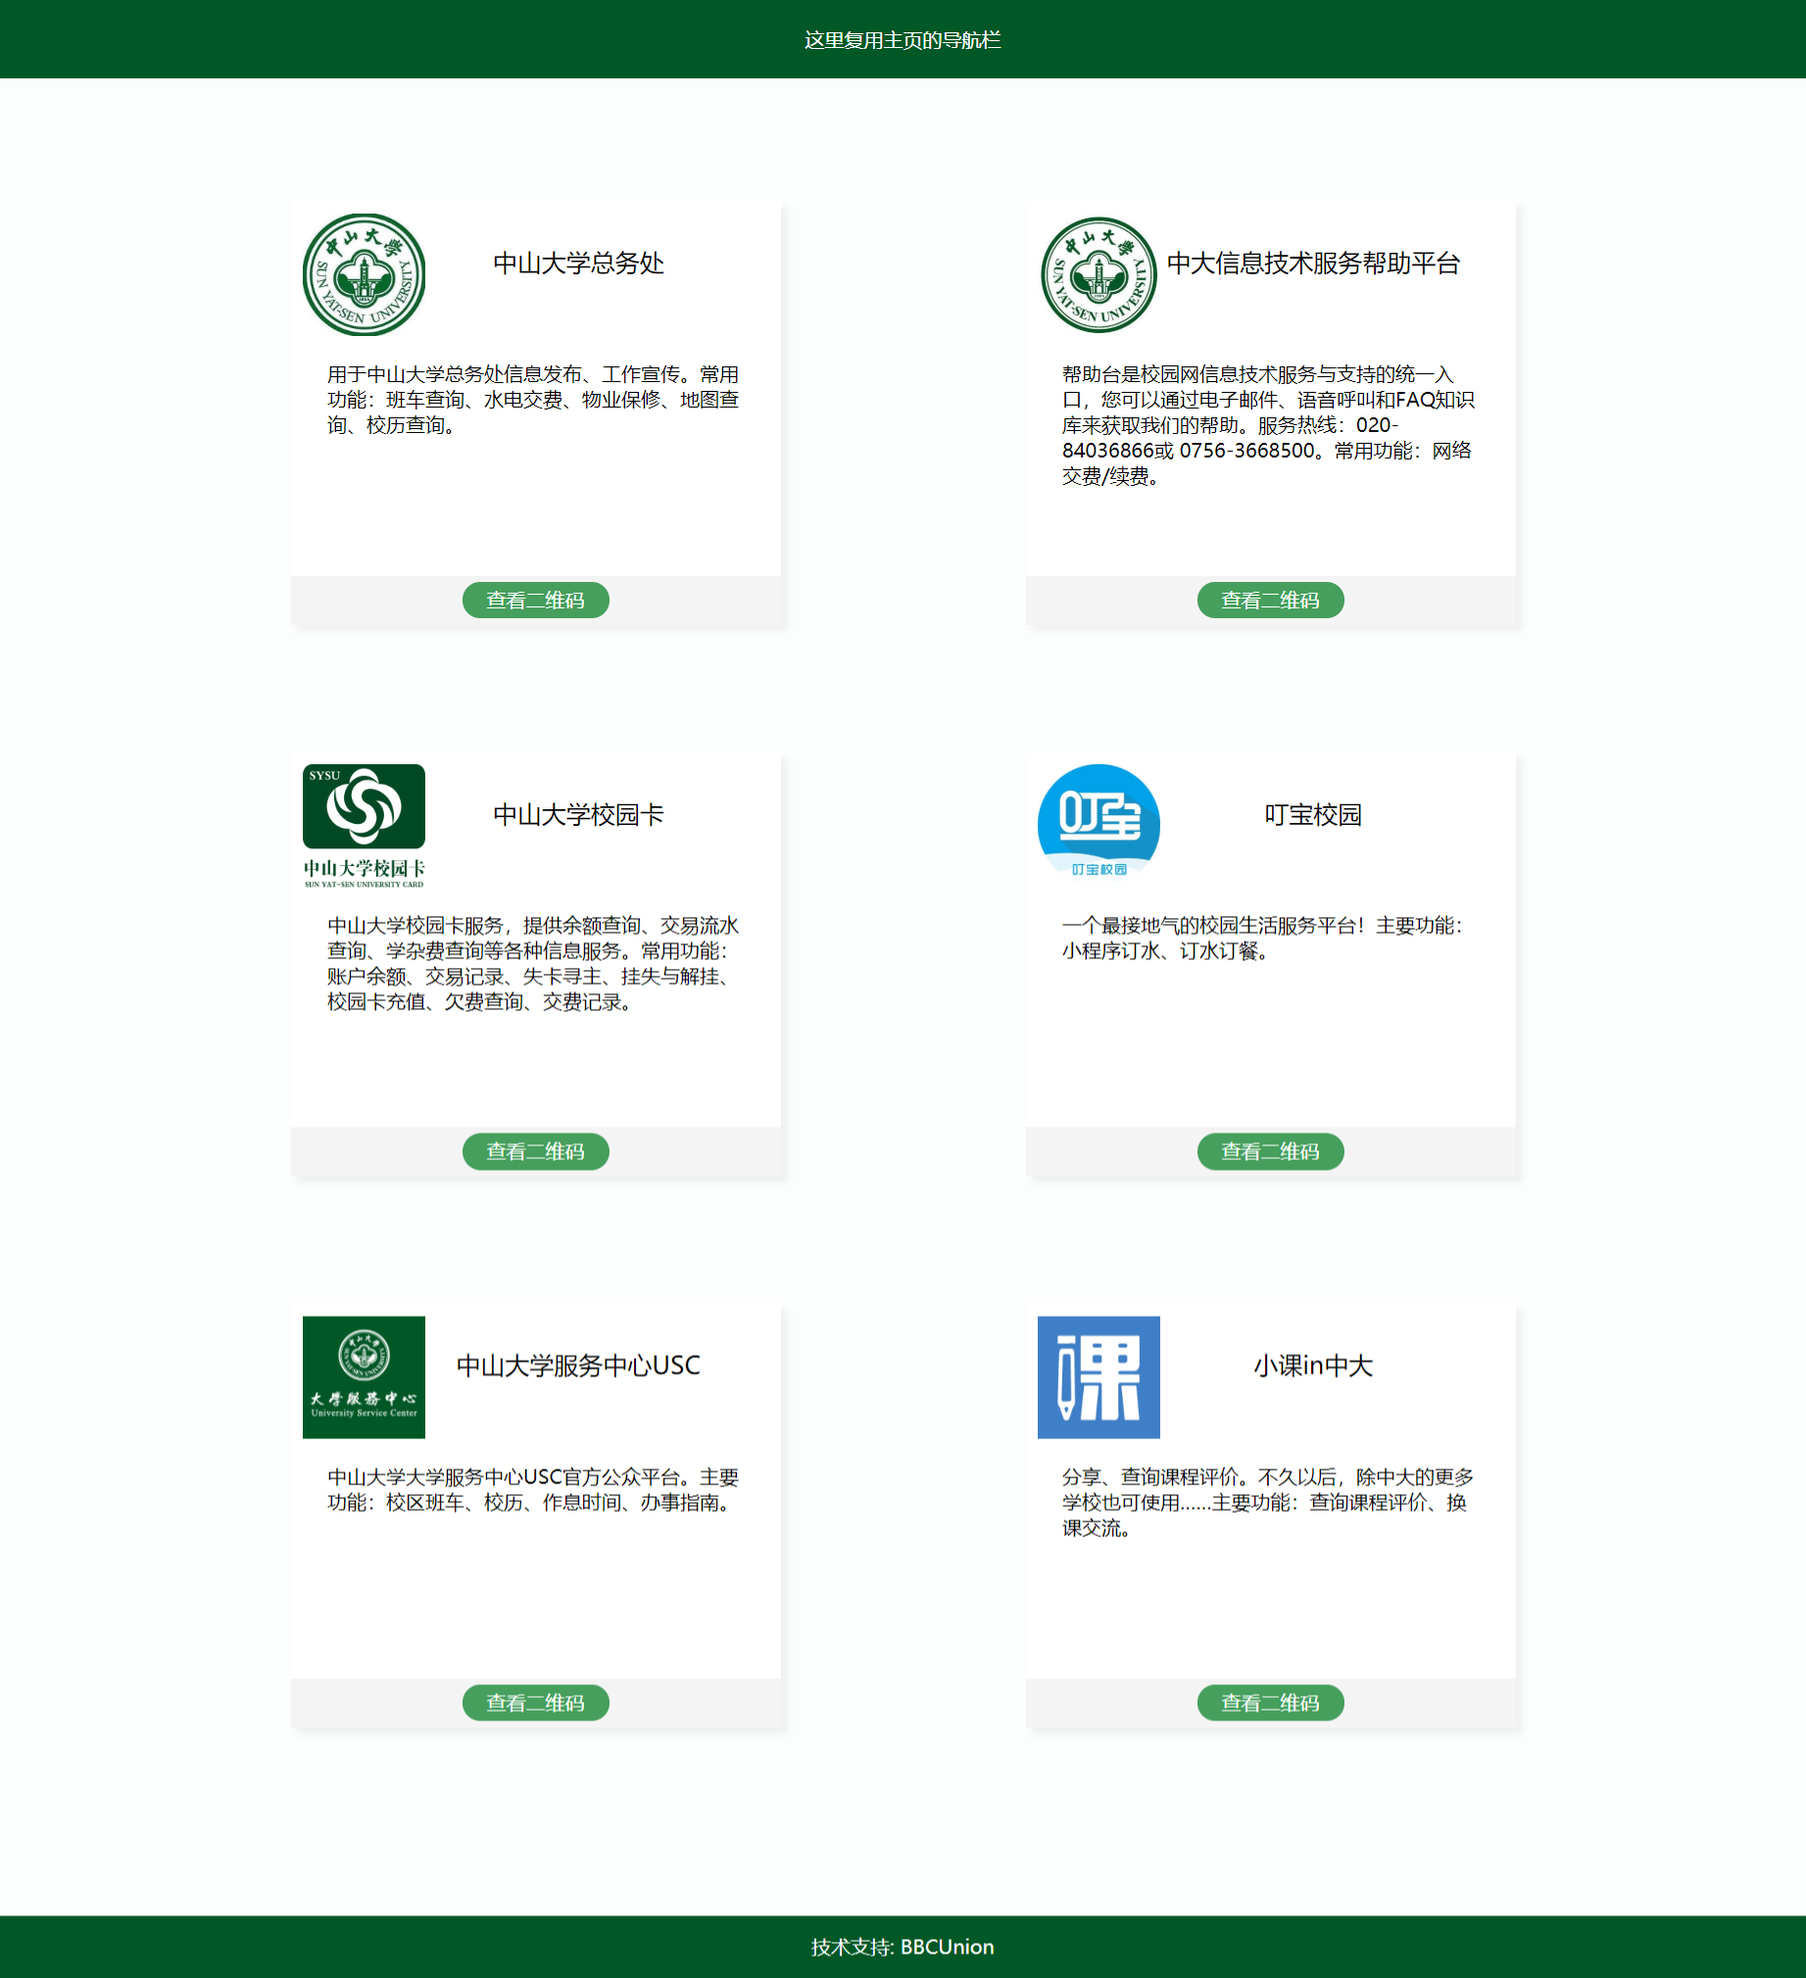
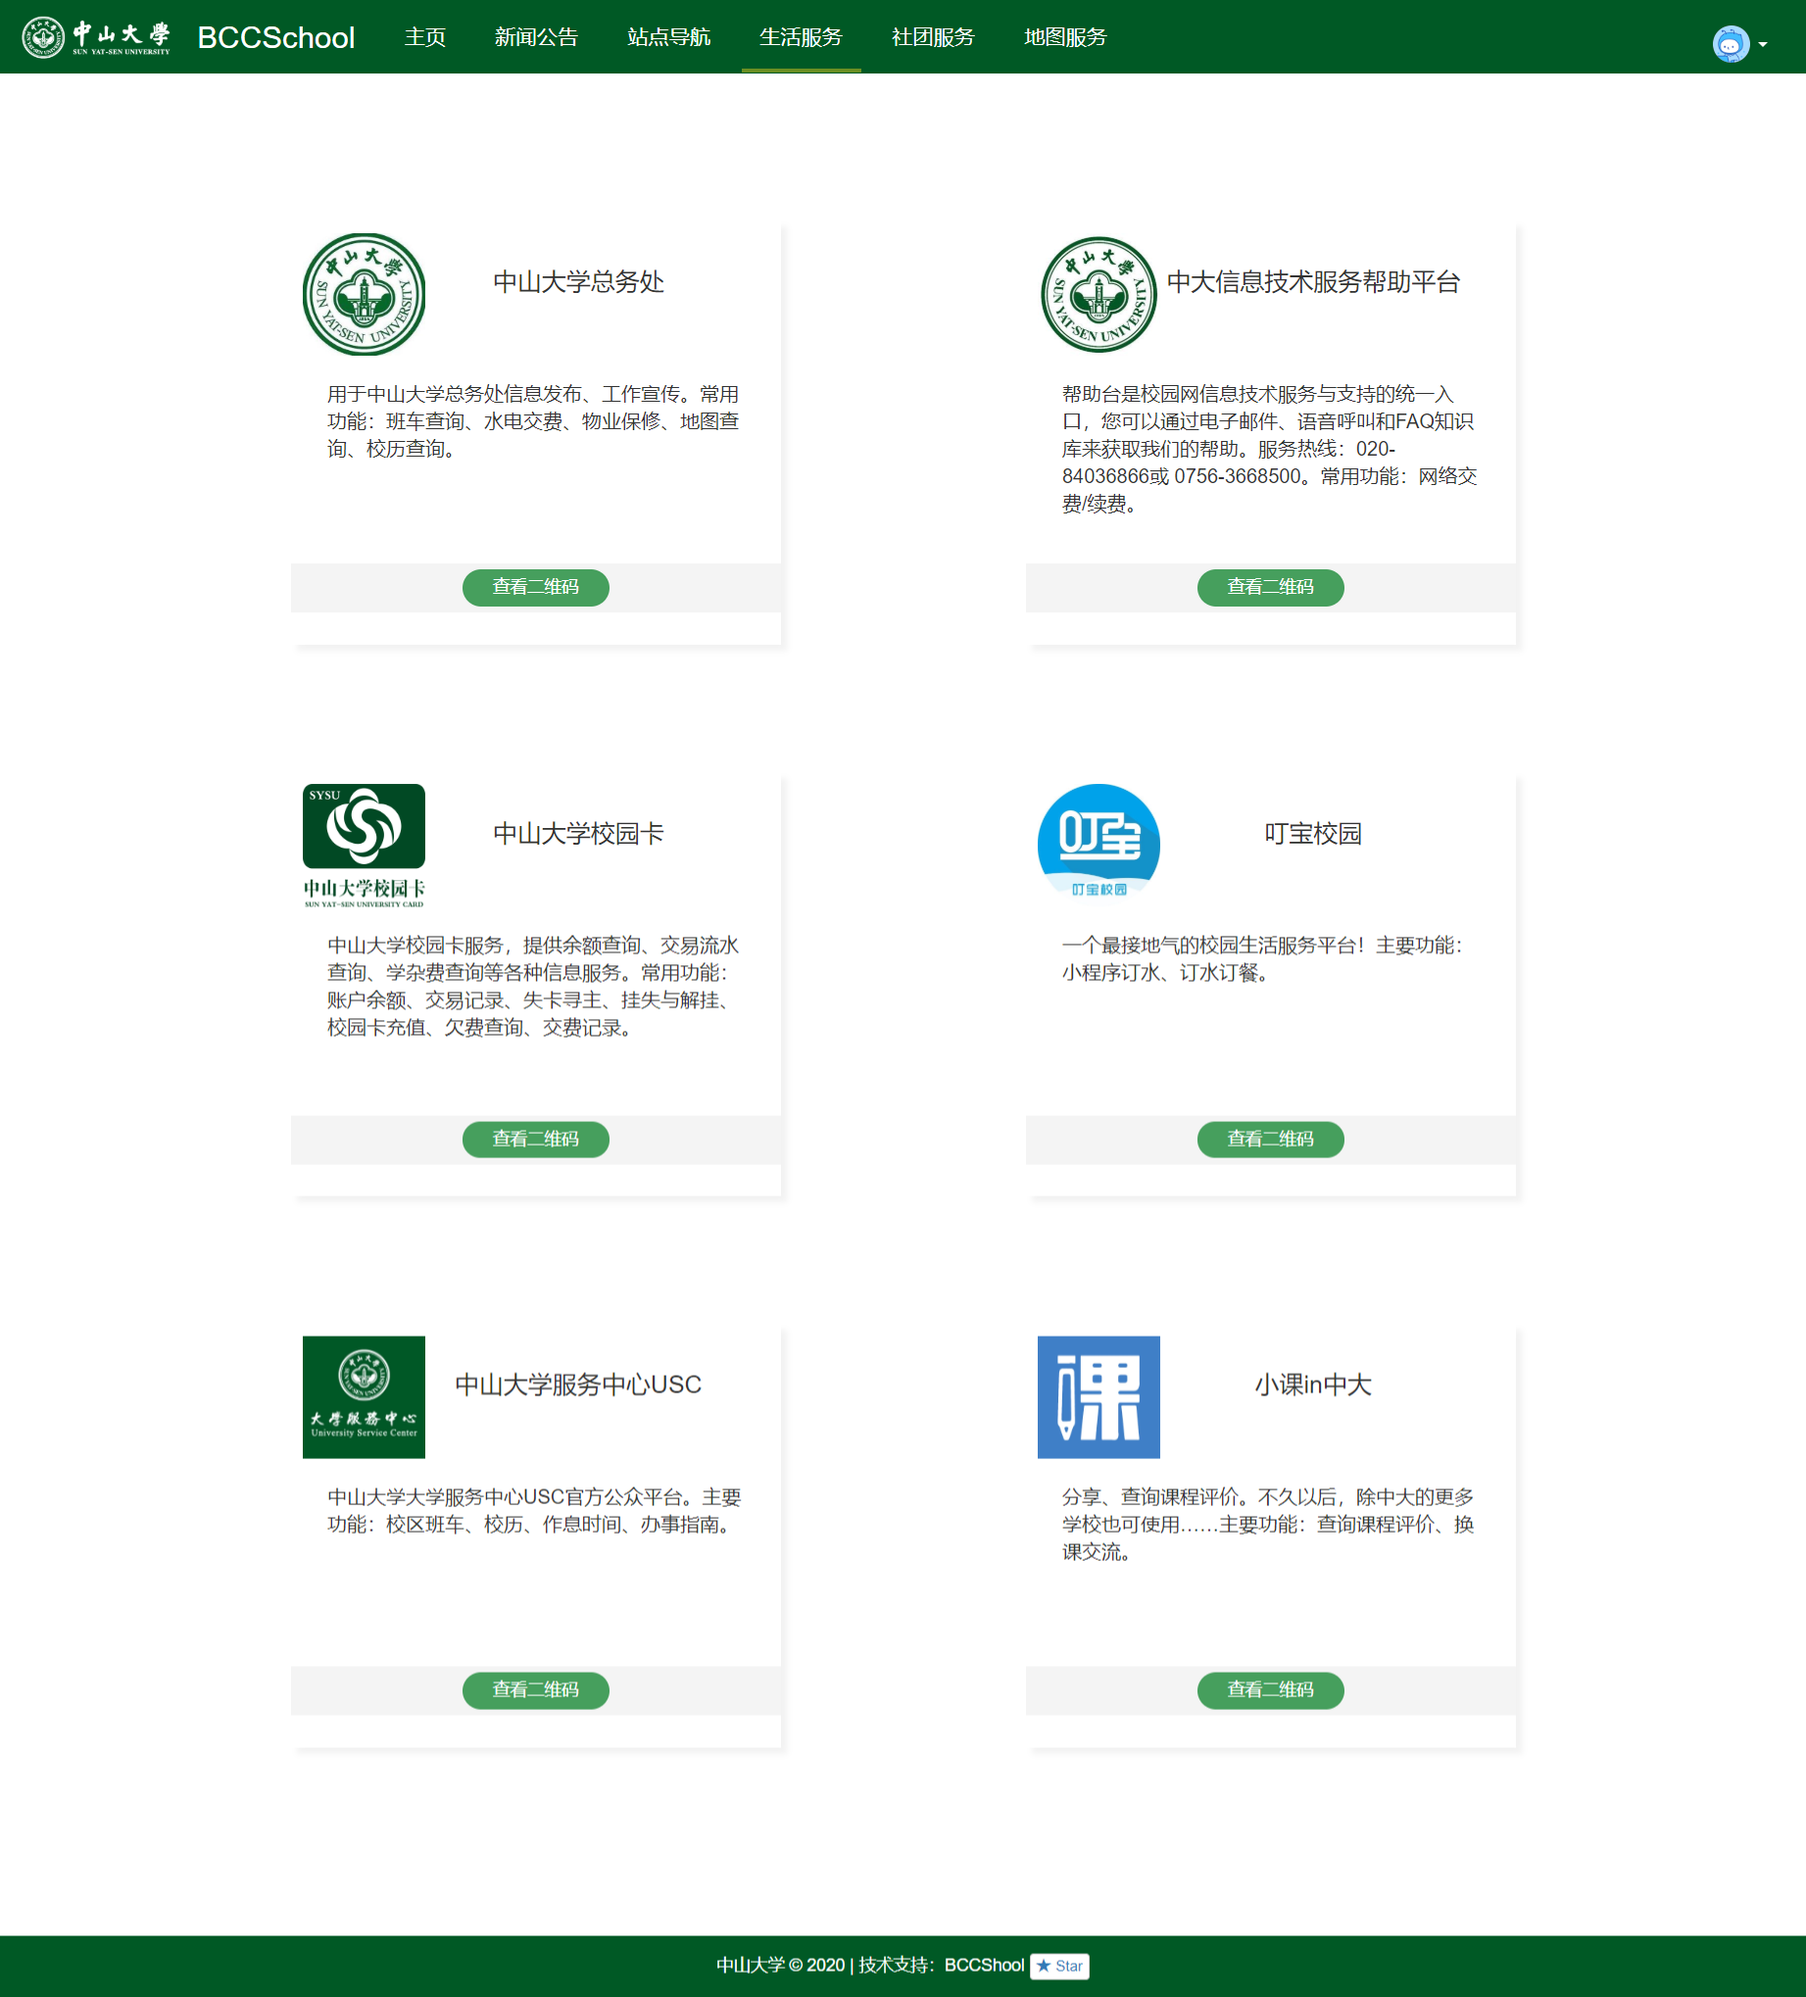
feat: repalce nav and foot

diff --git a/frontend/public/public.html b/frontend/public/public.html
@@ -4,10 +4,55 @@
 	<meta charset="UTF-8">
 	<title>生活服务</title>
 	<link rel="stylesheet" type="text/css" href="./css/public.css">
+	<link 
+      rel="stylesheet"
+      href="https://cdn.jsdelivr.net/npm/bootstrap@3.3.7/dist/css/bootstrap.min.css" integrity="sha384-BVYiiSIFeK1dGmJRAkycuHAHRg32OmUcww7on3RYdg4Va+PmSTsz/K68vbdEjh4u" crossorigin="anonymous">
+    <script src="https://cdn.staticfile.org/jquery/1.10.2/jquery.min.js"></script>
 </head>
 
 <body>
-	<div class="nav">这里复用主页的导航栏</div>
+	<div class="nav_bar">
+		<header class="home-header">
+        <nav class="navbar">
+          <div class="container-fluid">
+            <!-- Brand and toggle get grouped for better mobile display -->
+            <div class="navbar-header">
+              <a class="navbar-brand logo" href="#">
+                <img alt="Brand" src="./img/logo.png">
+              </a>
+              <span class="navbar-brand text">BCCSchool</span>
+            </div>
+        
+            <!-- Collect the nav links, forms, and other content for toggling -->
+            <div class="collapse navbar-collapse" id="bs-example-navbar-collapse-1">
+              <ul class="nav navbar-nav menu">
+                <li class="menu-item"><a href="#">主页</a></li>
+                <li class="menu-item"><a href="#">新闻公告</a></li>
+                <li class="menu-item"><a href="#">站点导航</a></li>
+                <li class="active menu-item"><a href="#">生活服务<span class="sr-only">(current)</span></a></li>
+                <li class="menu-item"><a href="#">社团服务</a></li>
+                <li class="menu-item"><a href="#">地图服务</a></li>
+              </ul>
+              <ul class="nav navbar-nav navbar-right">
+                <li class="dropdown">
+                  <a href="#" class="dropdown-toggle" data-toggle="dropdown" role="button" aria-haspopup="true" aria-expanded="false">
+                    <img class="avatar" src="./img/avatar.png"><span class="caret"></span>
+                  </a>
+                  <ul class="dropdown-menu">
+                    <li><a href="#">个人设置</a></li>
+                    <li><a href="#">系统设置</a></li>
+                    <li role="separator" class="divider"></li>
+                    <li><a href="#">退出登陆</a></li>
+                  </ul>
+                </li>
+              </ul>
+            </div><!-- /.navbar-collapse -->
+          </div><!-- /.container-fluid -->
+        </nav>
+    </header>
+
+	</div>
+	
 	<div class="body">
 		<div class="card" id="c1">
 			<div>
@@ -17,7 +62,7 @@
 					用于中山大学总务处信息发布、工作宣传。常用功能：班车查询、水电交费、物业保修、地图查询、校历查询。
 				</p>
 				<div class="btn-container">
-					<div class="btn">查看二维码</div>
+					<div class="btn_qr">查看二维码</div>
 					<div class="hide"><img src="./img/QR/zsdxzwc.bmp" class="QR" alt=""></div>
 				</div>
 			</div>
@@ -31,7 +76,7 @@
 					帮助台是校园网信息技术服务与支持的统一入口，您可以通过电子邮件、语音呼叫和FAQ知识库来获取我们的帮助。服务热线：020-84036866或 0756-3668500。常用功能：网络交费/续费。
 				</p>
 				<div class="btn-container">
-					<div class="btn">查看二维码</div>
+					<div class="btn_qr">查看二维码</div>
 					<div class="hide"><img src="./img/QR/zsdxxxjsfwbzpt.bmp" class="QR" alt=""></div>
 				</div>
 			</div>
@@ -46,7 +91,7 @@
 					中山大学校园卡服务，提供余额查询、交易流水查询、学杂费查询等各种信息服务。常用功能：账户余额、交易记录、失卡寻主、挂失与解挂、校园卡充值、欠费查询、交费记录。
 				</p>
 				<div class="btn-container">
-					<div class="btn">查看二维码</div>
+					<div class="btn_qr">查看二维码</div>
 					<div class="hide"><img src="./img/QR/zsdxxyk.bmp" class="QR" alt=""></div>
 				</div>
 			</div>
@@ -60,7 +105,7 @@
 					一个最接地气的校园生活服务平台！主要功能：小程序订水、订水订餐。
 				</p>
 				<div class="btn-container">
-					<div class="btn">查看二维码</div>
+					<div class="btn_qr">查看二维码</div>
 					<div class="hide"><img src="./img/QR/dbxy.bmp" class="QR" alt=""></div>
 				</div>
 			</div>
@@ -74,7 +119,7 @@
 					中山大学大学服务中心USC官方公众平台。主要功能：校区班车、校历、作息时间、办事指南。
 				</p>
 				<div class="btn-container">
-					<div class="btn">查看二维码</div>
+					<div class="btn_qr">查看二维码</div>
 					<div class="hide"><img src="./img/QR/zsdxfwzxusc.bmp" class="QR" alt=""></div>
 				</div>
 			</div>
@@ -88,17 +133,24 @@
 					分享、查询课程评价。不久以后，除中大的更多学校也可使用……主要功能：查询课程评价、换课交流。
 				</p>
 				<div class="btn-container">
-					<div class="btn">查看二维码</div>
+					<div class="btn_qr">查看二维码</div>
 					<div class="hide"><img src="./img/QR/xkizd.bmp" class="QR" alt=""></div>
 				</div>
 			</div>
 		</div>
 	</div>
 
-	<div class="foot">技术支持: BBCUnion</div>
-
-
-
+	<!-- <div class="foot">技术支持: BBCUnion</div> -->
+	<footer class="home-footer">
+        <p>中山大学 © 2020 | 技术支持：BCCShool 
+          <button type="button" class="btn btn-default btn-xs">
+            <a target="__black" href="https://github.com/BCCUnion/BCCSchool">
+              <span class="glyphicon glyphicon-star" aria-hidden="true"></span> Star
+            </a>
+          </button>
+      </p>
+    </footer>
+	<script src="https://cdn.jsdelivr.net/npm/bootstrap@3.3.7/dist/js/bootstrap.min.js" integrity="sha384-Tc5IQib027qvyjSMfHjOMaLkfuWVxZxUPnCJA7l2mCWNIpG9mGCD8wGNIcPD7Txa" crossorigin="anonymous"></script>
 </body>
 
 </html>

diff --git a/frontend/public/css/public.css b/frontend/public/css/public.css
@@ -3,13 +3,14 @@ body {
     margin: 0px;
 }
 
-.nav{
-	width: 100%;
+.nav_bar{
+/*	width: 100%;
 	height: 64px;
-	background-color: #005826;
 	color: #ffffff;
 	text-align: center;
-	line-height: 64px;
+	line-height: 64px;*/
+	background-color: #005826;
+	position: relative;
 }
 
 .foot{
@@ -63,7 +64,7 @@ body {
 	padding: 10px 20px;
 	height: 150px;
 }
-.btn{
+.btn_qr{
 	width: 120px;
 	height: 30px;
 	border-radius:20px;
@@ -84,12 +85,12 @@ body {
 	display: none;
 }
 
-.btn:hover{
+.btn_qr:hover{
 	background-color: #005826;
 }
 
 
-.btn:hover + .hide{
+.btn_qr:hover + .hide{
 	display: block;
 }
 
@@ -145,3 +146,89 @@ body {
 	margin-left: 100px;
 	top: 1000px;
 }
+
+/*footer*/
+.home-footer {
+  position: relative;
+  display: flex;
+  justify-content: center;
+  align-items: center;
+  bottom: 0;
+  width: 100%;
+  height: 50px;
+  color: white;
+  background-color: #005925;
+
+}
+
+.home-footer p {
+  margin: 0 !important;
+}
+
+/*header-nav*/
+.home-header {
+  background-color: #005925;
+}
+
+.navbar {
+  border: 0;
+  padding-top: 5px;
+  margin: 0 auto;
+  max-width: 1500px;
+  background-color: #005925;
+}
+
+.navbar-brand img {
+  cursor: pointer;
+  width: 130px;
+  position: relative;
+  bottom: 10px;
+}
+
+.navbar-brand.text {
+  cursor: pointer;
+  color: white;
+  font-size: 25px;
+}
+.navbar-brand.text:hover {
+  cursor: pointer;
+  color: white;
+}
+
+.navbar-nav.menu .menu-item a{
+  font-size: 17px;
+  color: white !important;
+  margin-left: 10px;
+  transition: border-bottom 0.2s ease-in;
+  border-bottom: transparent 3px solid;
+  background-color: #005925;
+}
+
+.navbar-nav.menu .menu-item a:hover{
+  border-bottom: rgb(107, 143, 35) 3px solid;
+  background-color: #005925;
+}
+
+.navbar-nav.menu .menu-item.active a{
+  background-color: #005925 !important;
+  border-bottom: rgb(107, 143, 35) 3px solid;
+}
+
+.dropdown-toggle {
+  background-color: #005925 !important;
+  padding-bottom: 0px !important;
+}
+
+.navbar-nav.navbar-right .avatar {
+  display: inline-block;
+  height: 30px;
+  width: 30px;
+  border-radius: 50%;
+  margin-right: 5px;
+  background-color: grey;
+}
+
+.caret {
+  color: white;
+}
+
